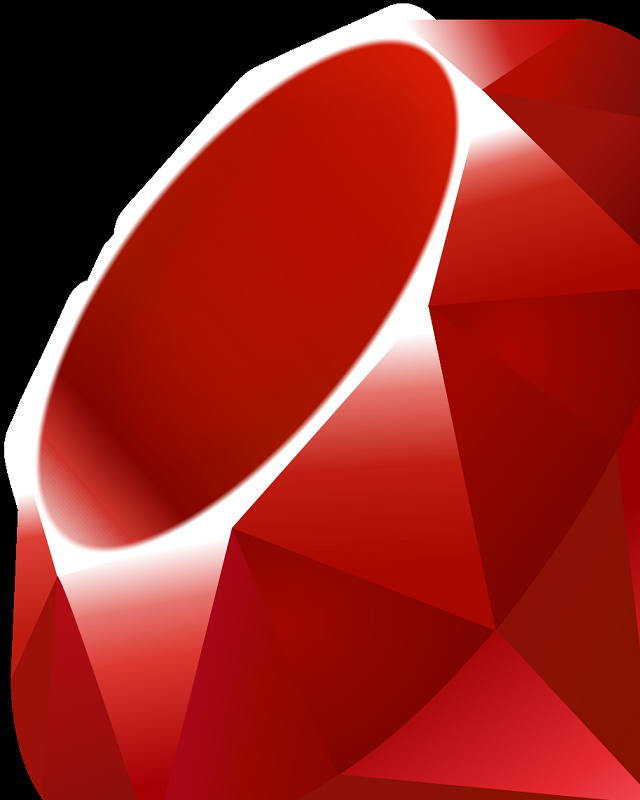
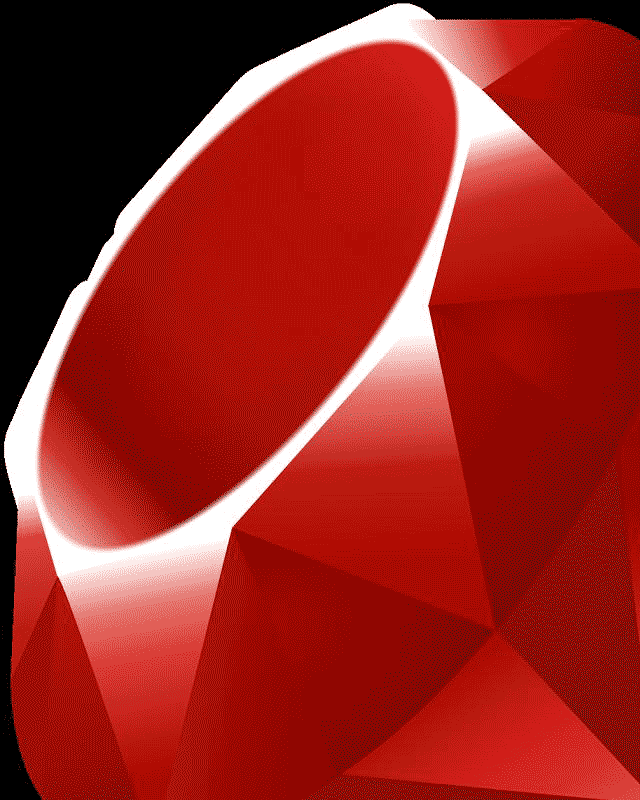
bundle smaller PNGs

diff --git a/examples/example2.rb b/examples/example2.rb
@@ -1,10 +1,11 @@
 require 'rubygems'
+require 'devil'
 require File.join(File.dirname($0), "..", "lib", "chingu")
 include Gosu
 
 #
 # A little more complicated example where we do our own #update and #draw code.
-# We also add another Actor - a bullet fired with space.
+# We also add another GameObject - a bullet fired with space.
 #
 # Also tests out the Debug game state.
 #
@@ -64,8 +65,8 @@ class Play < Chingu::GameState
                       :holding_right => :move_right, 
                       :holding_up => :move_up, 
                       :holding_down => :move_down, 
-                      :space => :fire,
-                      }
+                      :space => :fire
+                    }
     self.input = { :f1 => :debug, :escape => :exit }
   end
   
@@ -75,19 +76,19 @@ class Play < Chingu::GameState
     
   #
   # If we want to add extra graphics drawn just define your own draw.
-  # Be sure to call #super for enabling Chingus autodrawing of Actors.
+  # Be sure to call #super for enabling Chingus autodrawing of instances of GameObject.
   # Putting #super before or after the background-draw-call really doesn't matter since Gosu work with "zorder".
   #
   def draw
     # Raw Gosu Image.draw(x,y,zorder)-call
-    Image["background1.png"].draw(0, 0, 0)    
+    Image["background1.png"].draw(0, 0, 0)
     super
   end
 
   #
   # Gosus place for gamelogic is #update in the mainwindow
   #
-  # A #super call here would call #update on all Chingu::Actors and check their inputs, and call the specified method.
+  # A #super call here would call #update on all Chingu::GameObject-instances and check their inputs, and call the specified method.
   # 
   def update
     super
